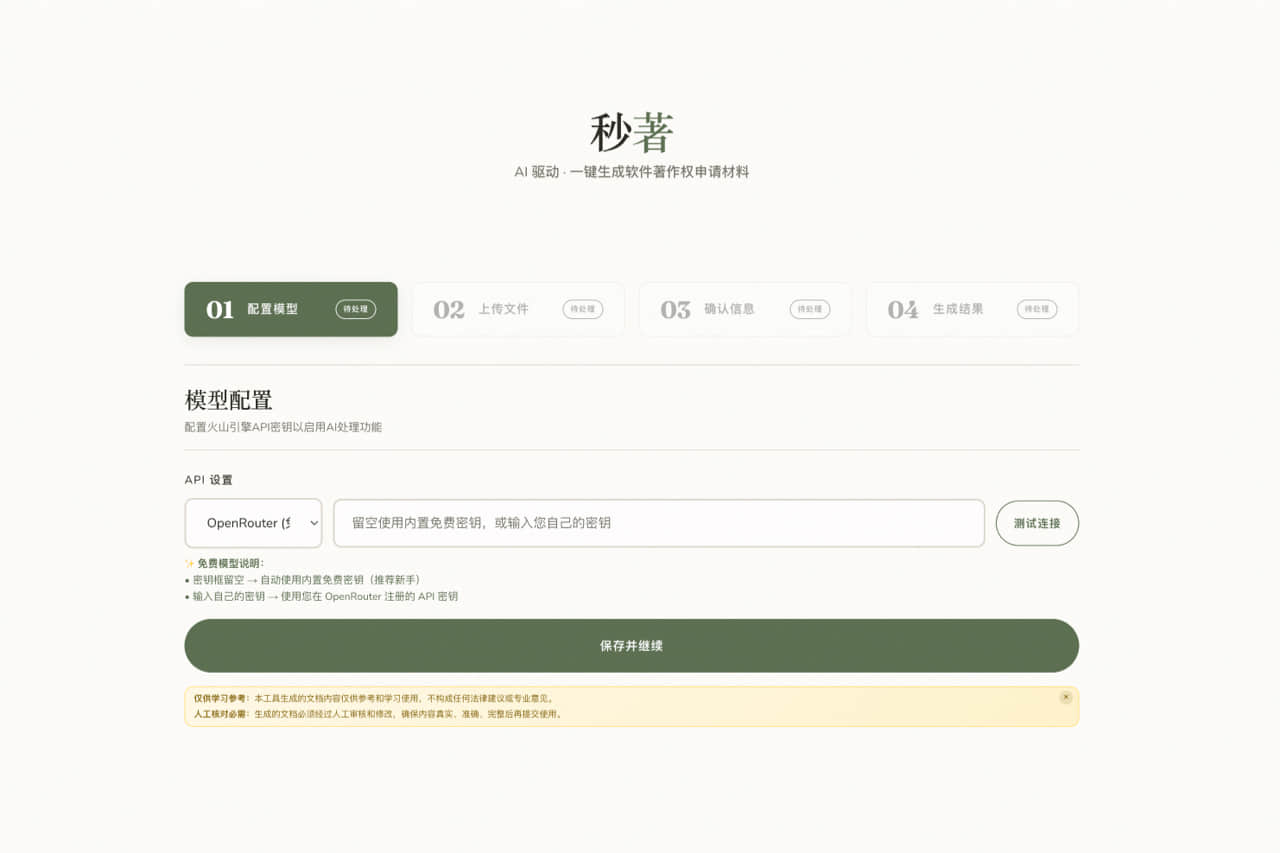
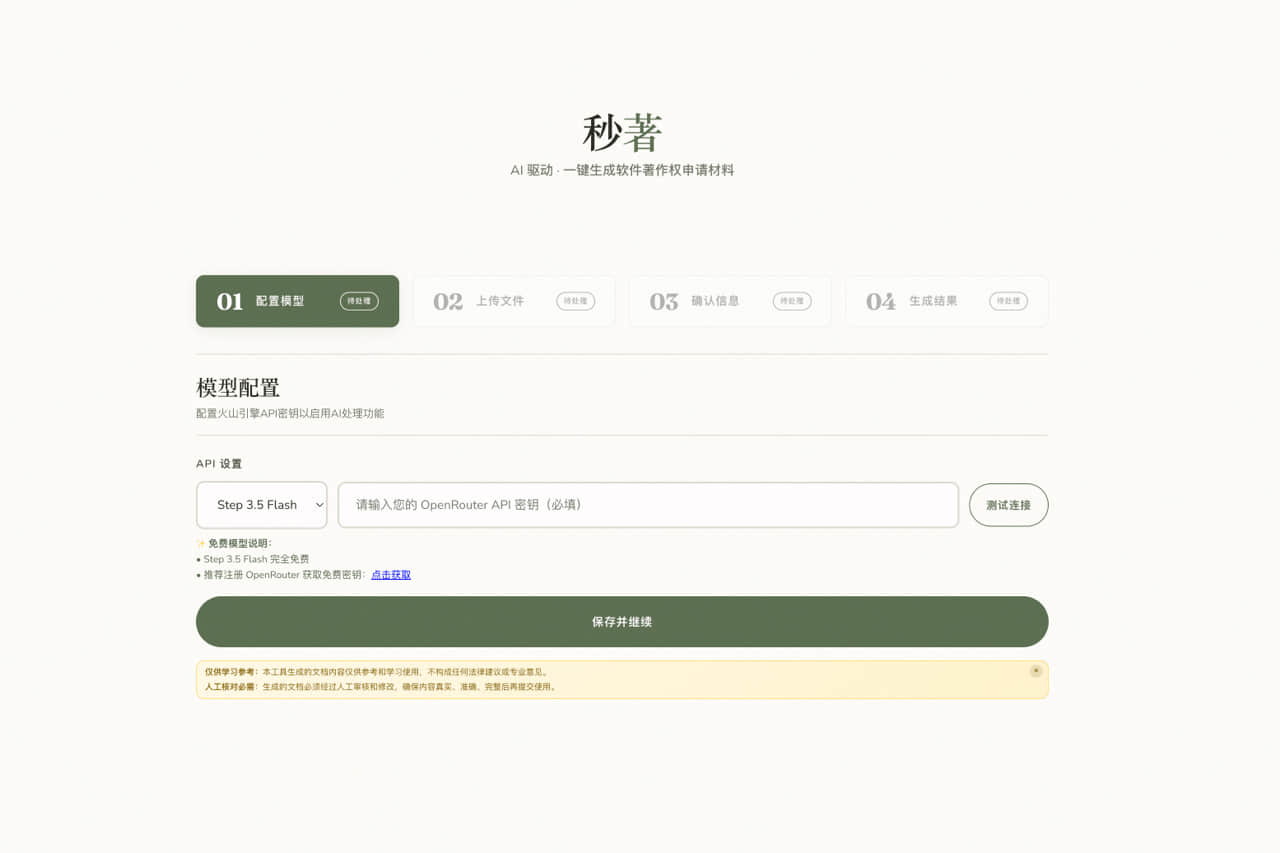
fix: 去AI味优化+安全加固
1. 去AI味：去除产品标识中的AI字样，添加deAI()后处理函数，
   统一Prompt禁用词表并添加风格示例，将常见技术用词（实现/
   支持/提供等）从禁用列表移出避免破坏语义

2. 安全加固：CORS从*改为仅允许localhost，proxy监听
   地址绑定127.0.0.1防止外部访问

diff --git a/proxy.js b/proxy.js
@@ -21,7 +21,7 @@ const PROVIDERS = {
       'Content-Type': 'application/json',
       'Authorization': `Bearer ${apiKey}`,
       'HTTP-Referer': 'http://localhost:3000',
-      'X-Title': 'MiaoZhu - AI Software Copyright Generator'
+      'X-Title': 'MiaoZhu'
     }),
     formatRequest: (body) => ({
       model: body.model,
@@ -486,7 +486,7 @@ function makeEmptyHeaderFooter() {
 // ═══════════════════════════════════════════════════════════════
 
 function handleCORS(req, res) {
-  res.setHeader('Access-Control-Allow-Origin', '*');
+  res.setHeader('Access-Control-Allow-Origin', 'http://localhost:3000');
   res.setHeader('Access-Control-Allow-Methods', 'POST, GET, OPTIONS');
   res.setHeader('Access-Control-Allow-Headers', 'Content-Type, Authorization');
 }
@@ -600,7 +600,7 @@ function handleChatStreamAPI(req, res) {
     'Content-Type': 'text/event-stream',
     'Cache-Control': 'no-cache',
     'Connection': 'keep-alive',
-    'Access-Control-Allow-Origin': '*'
+    'Access-Control-Allow-Origin': 'http://localhost:3000'
   });
 
   let body = '';
@@ -649,14 +649,14 @@ function handleGenerateDocx(req, res) {
       res.writeHead(200, {
         'Content-Type': 'application/vnd.openxmlformats-officedocument.wordprocessingml.document',
         'Content-Disposition': 'attachment; filename*=UTF-8\'\'' + fname,
-        'Access-Control-Allow-Origin': '*',
+        'Access-Control-Allow-Origin': 'http://localhost:3000',
         'Content-Length': buffer.length,
       });
       res.end(buffer);
       console.log('[' + new Date().toLocaleTimeString() + '] ✓ docx生成 ' + buffer.length + ' bytes');
     } catch(e) {
       console.error('生成docx失败:', e);
-      res.writeHead(500, { 'Content-Type': 'application/json', 'Access-Control-Allow-Origin': '*' });
+      res.writeHead(500, { 'Content-Type': 'application/json', 'Access-Control-Allow-Origin': 'http://localhost:3000' });
       res.end(JSON.stringify({ error: e.message }));
     }
   });
@@ -1198,7 +1198,7 @@ const server = http.createServer((req, res) => {
   res.end('Not found');
 });
 
-server.listen(PORT, () => {
+server.listen(PORT, '127.0.0.1', () => {
   console.log('\n  🌋 秒著 v5 (多模型适配版) 已启动');
   console.log('  ──────────────────────────────────');
   console.log('  👉 http://localhost:' + PORT);

diff --git a/main.js b/main.js
@@ -19,7 +19,7 @@ function createWindow() {
       webSecurity: true
     },
     icon: path.join(__dirname, 'icon.png'),
-    title: '秒著 - AI软著材料生成'
+    title: '秒著 - 软著材料生成'
   });
 
   mainWindow.loadFile('秒著.html');

diff --git a/README.md b/README.md
@@ -1,8 +1,8 @@
-# 秒著 - AI软著材料生成工具
+# 秒著 - 软著材料生成工具
 
 ## 🎯 产品简介
 
-秒著是一款基于AI的软件著作权申请材料自动生成工具，支持一键生成软件概述和设计说明书。
+秒著是一款软件著作权申请材料自动生成工具，支持一键生成软件概述和设计说明书。
 
 ## ✨ 主要功能
 
@@ -104,6 +104,8 @@ npm run build:linux
 - ✅ 不会保存到本地存储
 - ✅ 关闭应用后自动清除
 - ✅ 不会上传到任何服务器
+- ✅ 本地代理仅监听127.0.0.1，外部无法访问
+- ✅ CORS仅允许localhost，防止恶意网站跨域调用
 
 ### 使用建议
 - 🔐 请勿在公共电脑上保存API Key
@@ -125,7 +127,7 @@ npm run build:linux
 ### 第二步：上传文件
 1. 上传项目文档（支持.doc, .docx, .pdf）
 2. 或直接粘贴文档内容
-3. 点击"AI提取信息"
+3. 点击"提取信息"
 
 ![上传文件](https://github.com/suzuka61/AI-MiaoZhu/blob/4da5ceb8c220c5e0ebf8798974ffd087ebe76434/%E8%BD%AF%E4%BB%B6%E7%95%8C%E9%9D%A2/2.%E7%AC%AC%E4%BA%8C%E9%A1%B5%E4%B8%8A%E4%BC%A0%E6%96%87%E4%BB%B6.jpg)
 
@@ -247,4 +249,4 @@ MIT License
 
 ---
 
-**秒著** - 让软著申请更简单 🚀
+**秒著** - 软著申请材料生成工具
